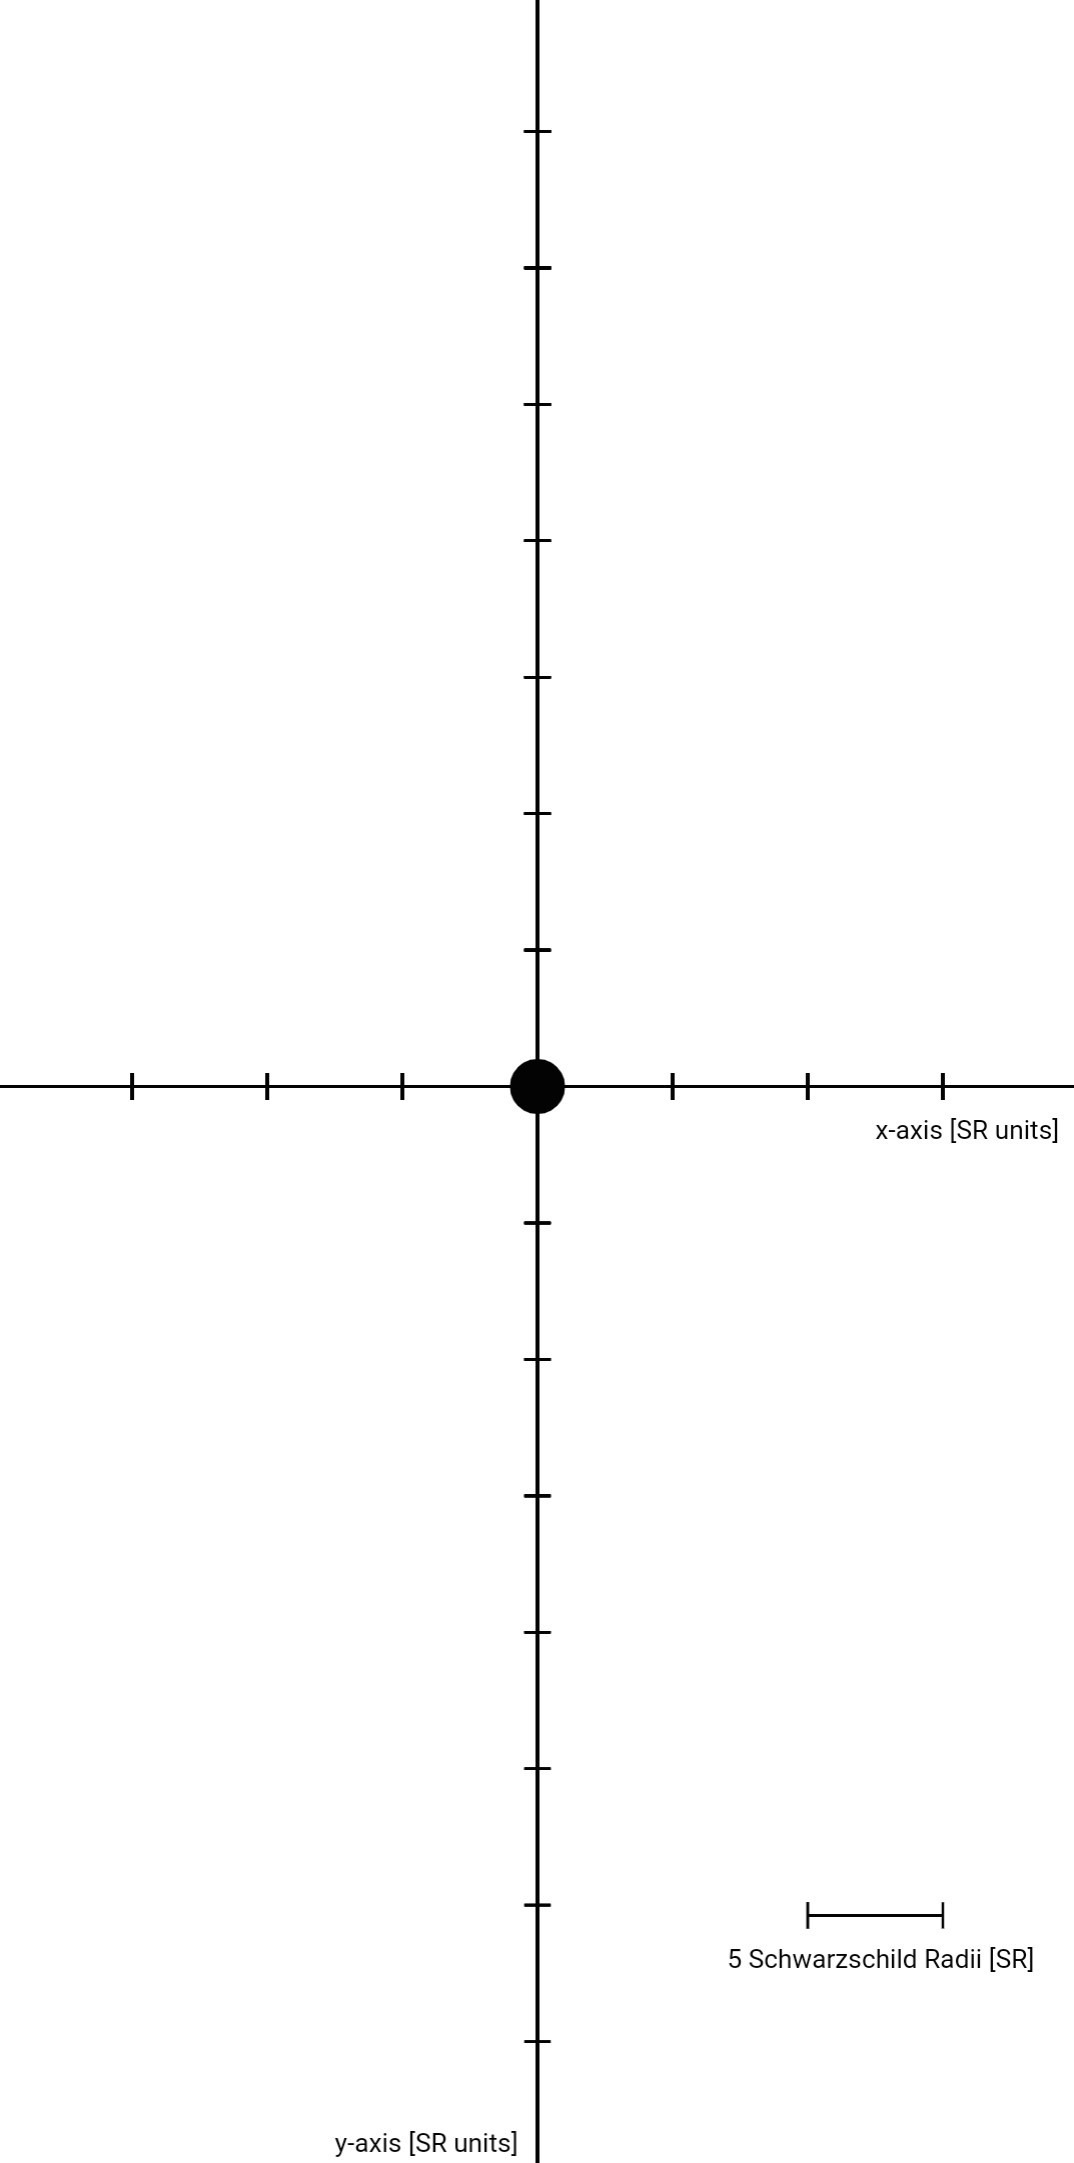
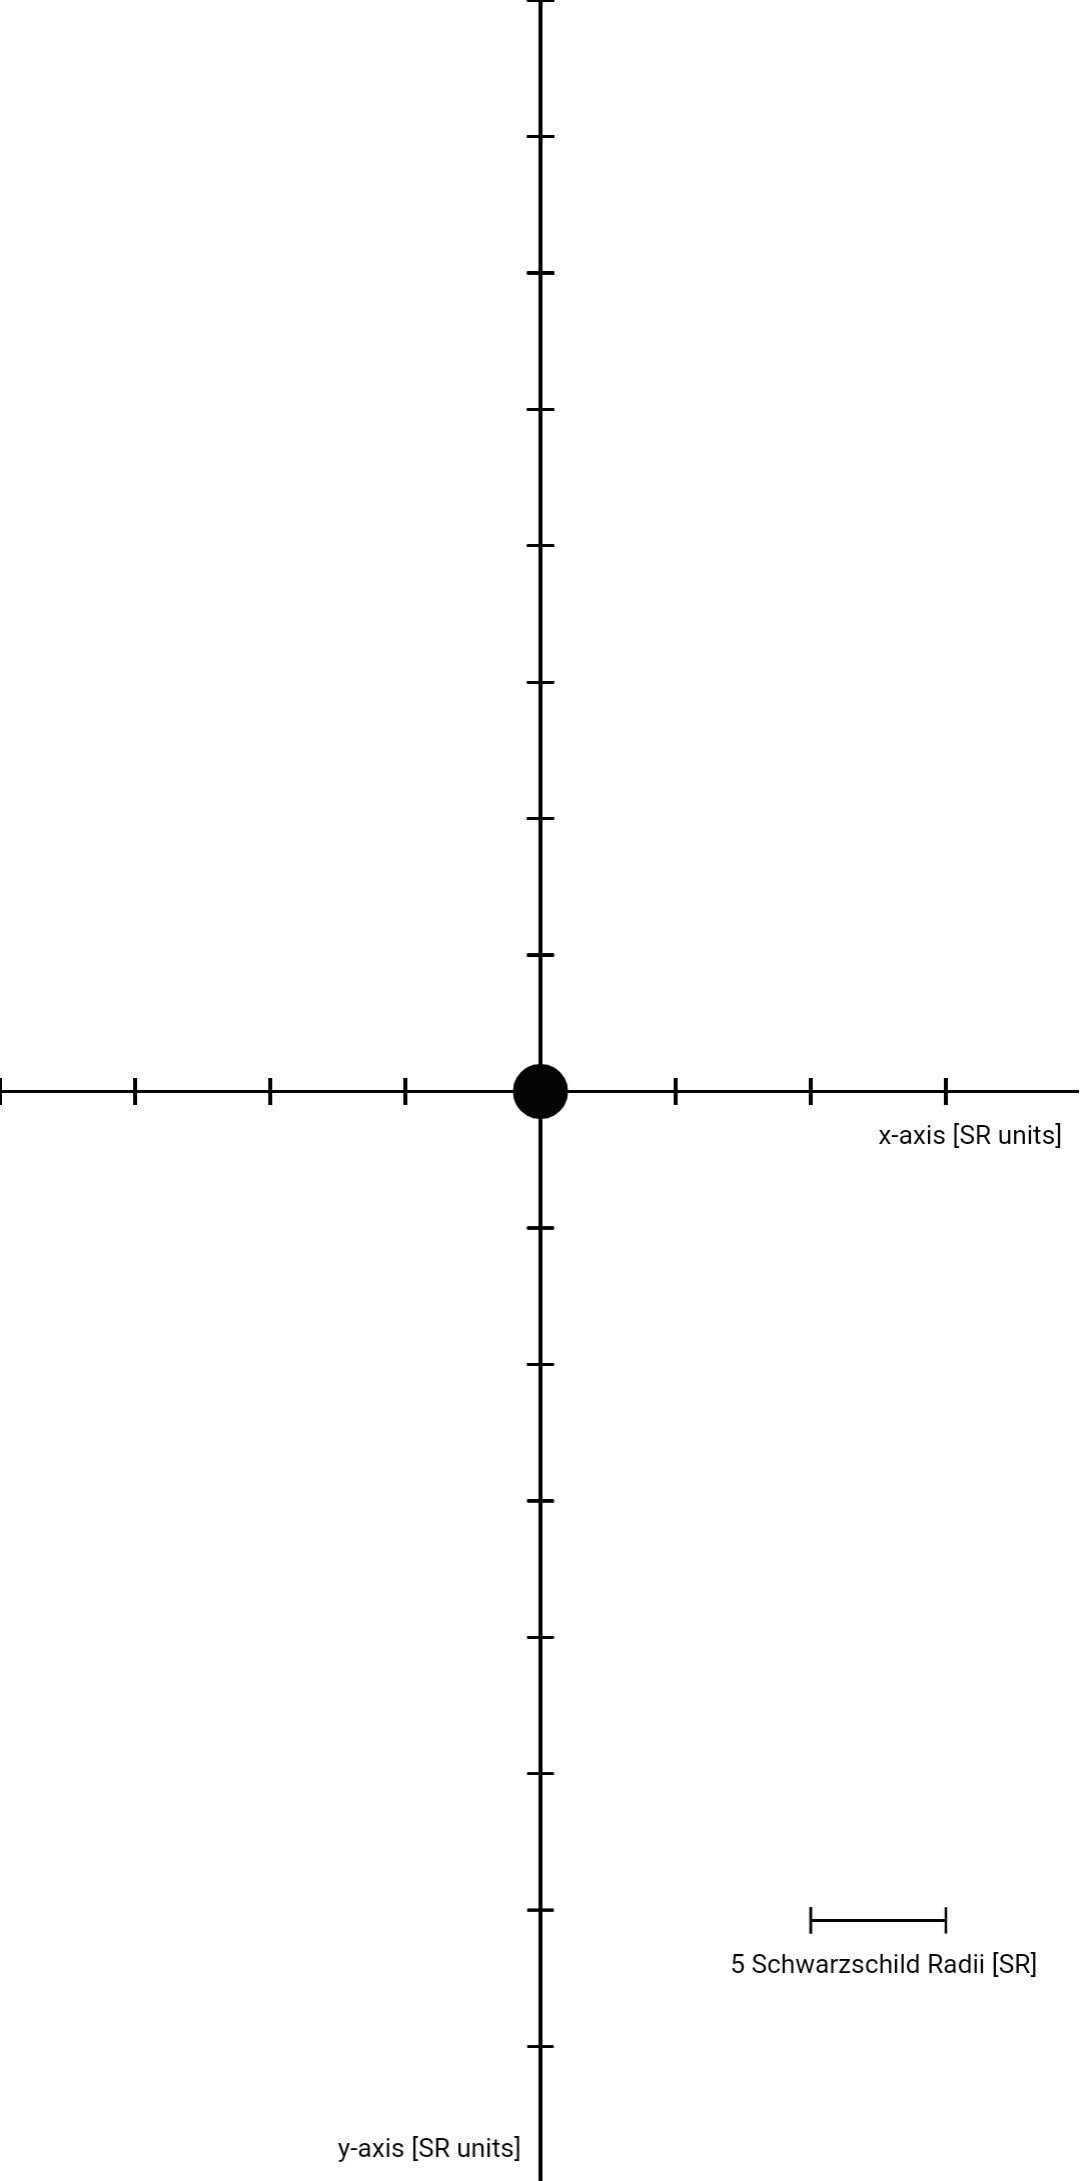
bugfix cart plane does not display on startup w/ patch redraw + drawing for startup

diff --git a/AppSchwarzschildRayTracing/Screens/Trace2D.js b/AppSchwarzschildRayTracing/Screens/Trace2D.js
@@ -933,6 +933,11 @@ let trace2 = {
       can.height = windowHeight
       can.width = windowWidth
 
+      // this is a temporary fix, for some reason drawing image on canvas is really delayed so this makes sure the user sees something initially. The perfect over lap of the pictures and the vcanvas drawing makes this possible.
+      drawCoordinateAxes()
+      drawLegend()
+      drawBlackHole()
+
       redrawCanvas()
     }
   }
@@ -1163,12 +1168,14 @@ let trace2 = {
     ctx.fillStyle = "rgba(255, 255, 255, 0.1)";
     ctx.fillRect(0, 0, windowWidth, windowHeight);
 
-    const image = new CanvasImage(canvas);
+    redrawCanvas()
 
-    const asset = Expo.Asset.fromModule(require('../assets/trans-2D-cart-axis.png'));
-    image.src = asset.uri;
-
-    ctx.drawImage(image, 0, 0, windowWidth, windowHeight);
+    // const image = new CanvasImage(canvas);
+    //
+    // const asset = Expo.Asset.fromModule(require('../assets/trans-2D-cart-axis.png'));
+    // image.src = asset.uri;
+    //
+    // ctx.drawImage(image, 0, 0, windowWidth, windowHeight);
 
     // get the image data object
     // let img = new CanvasImage(canvas);
